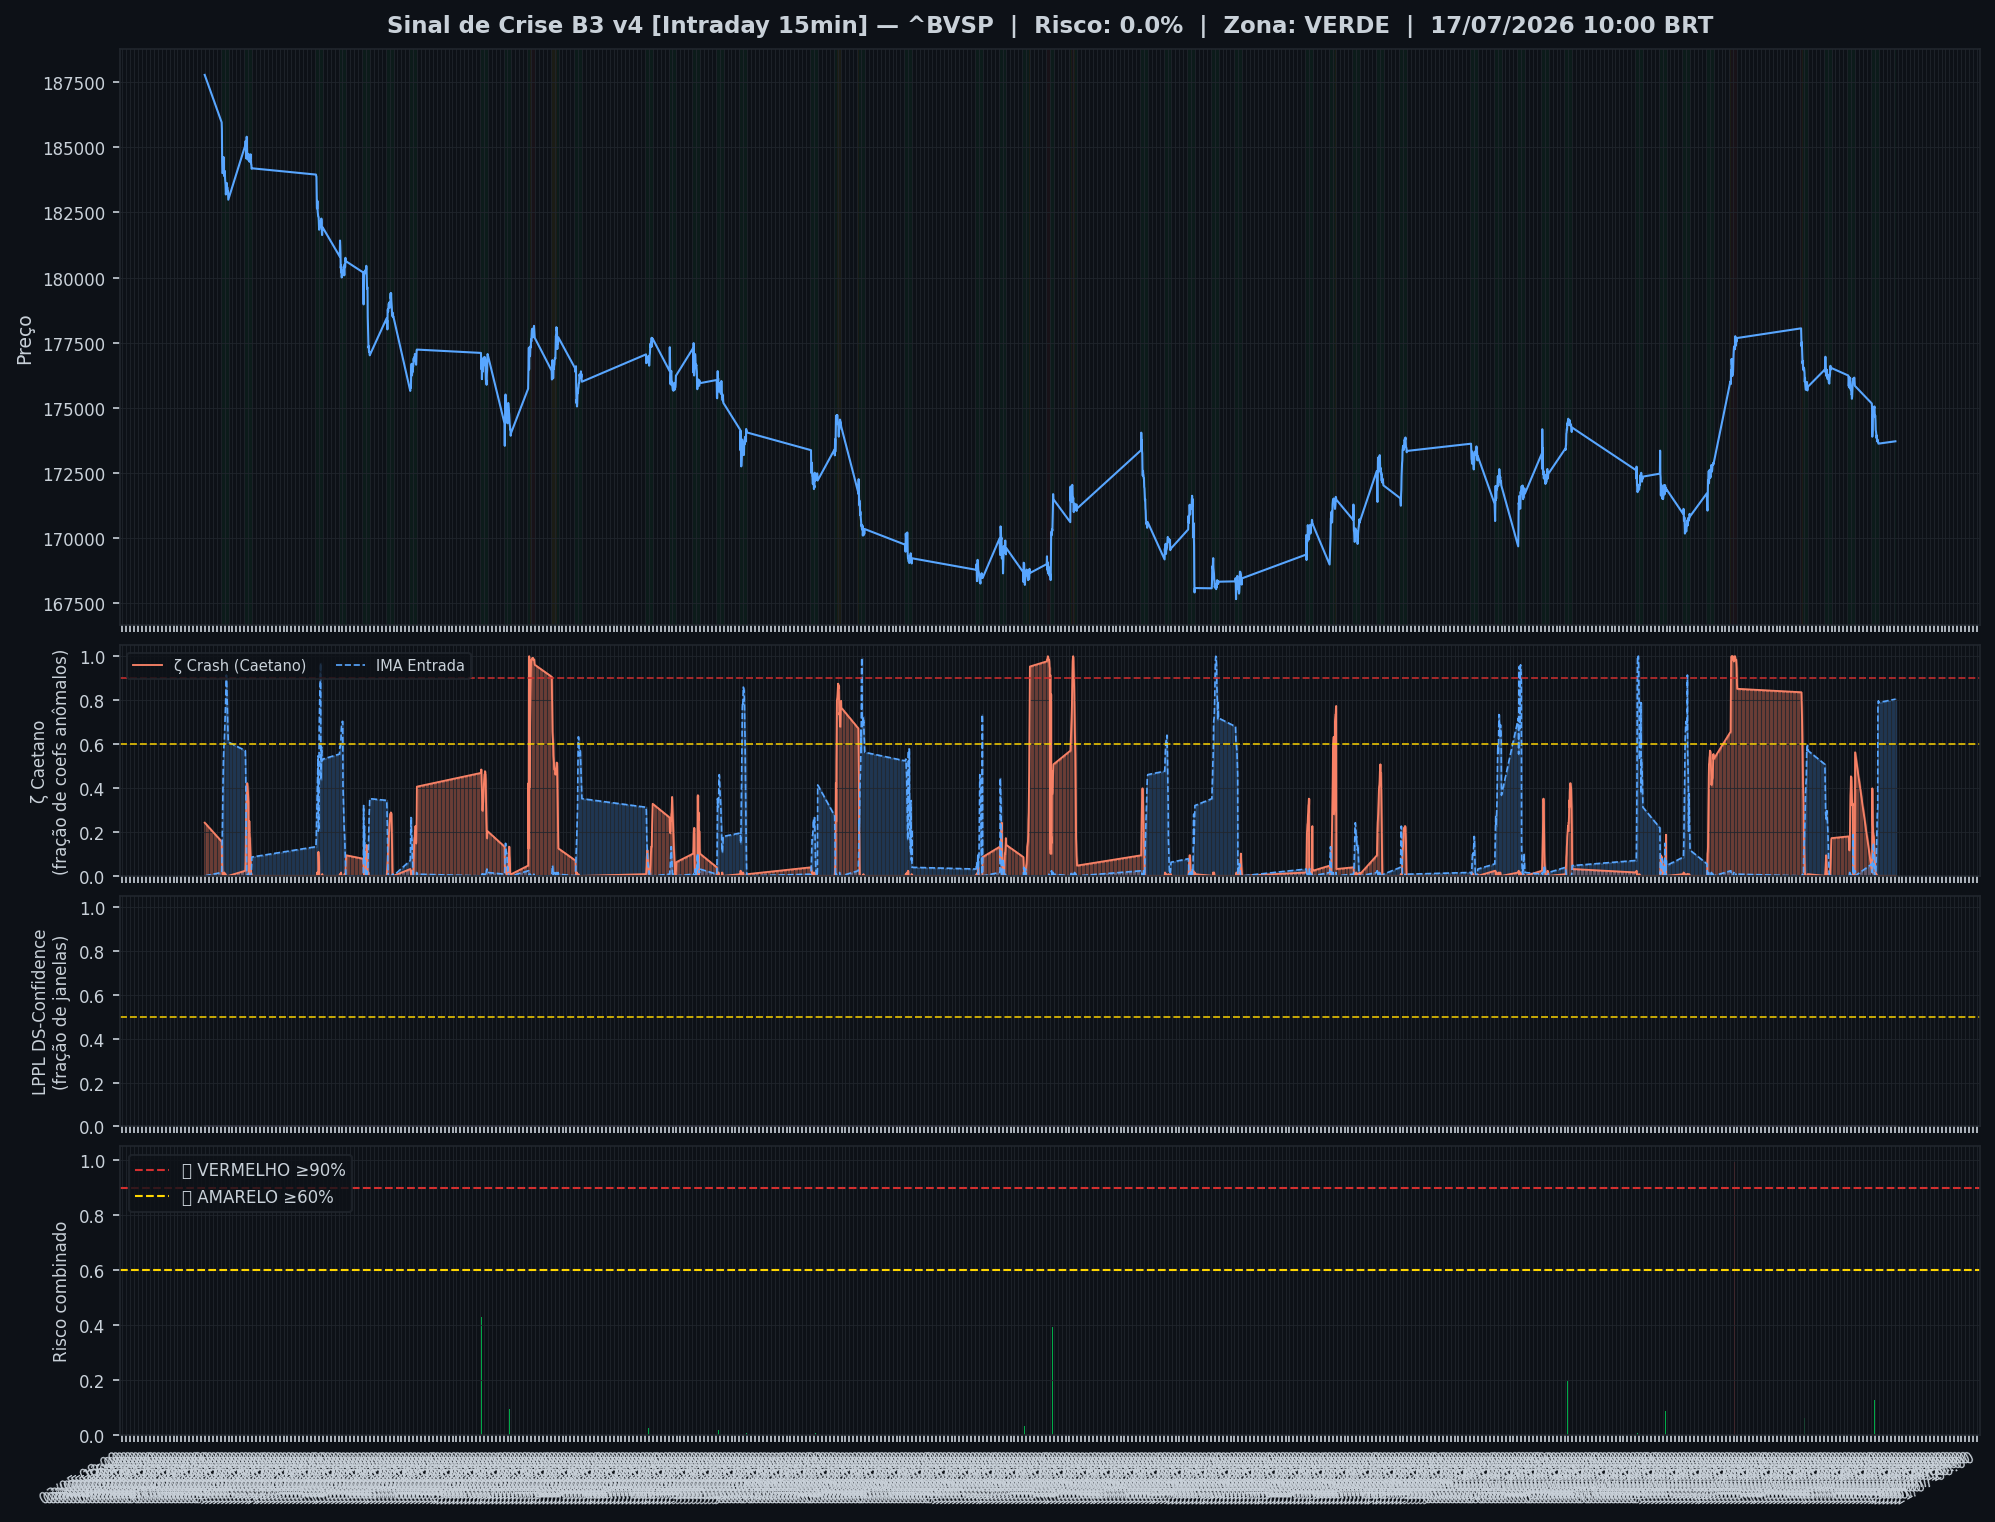
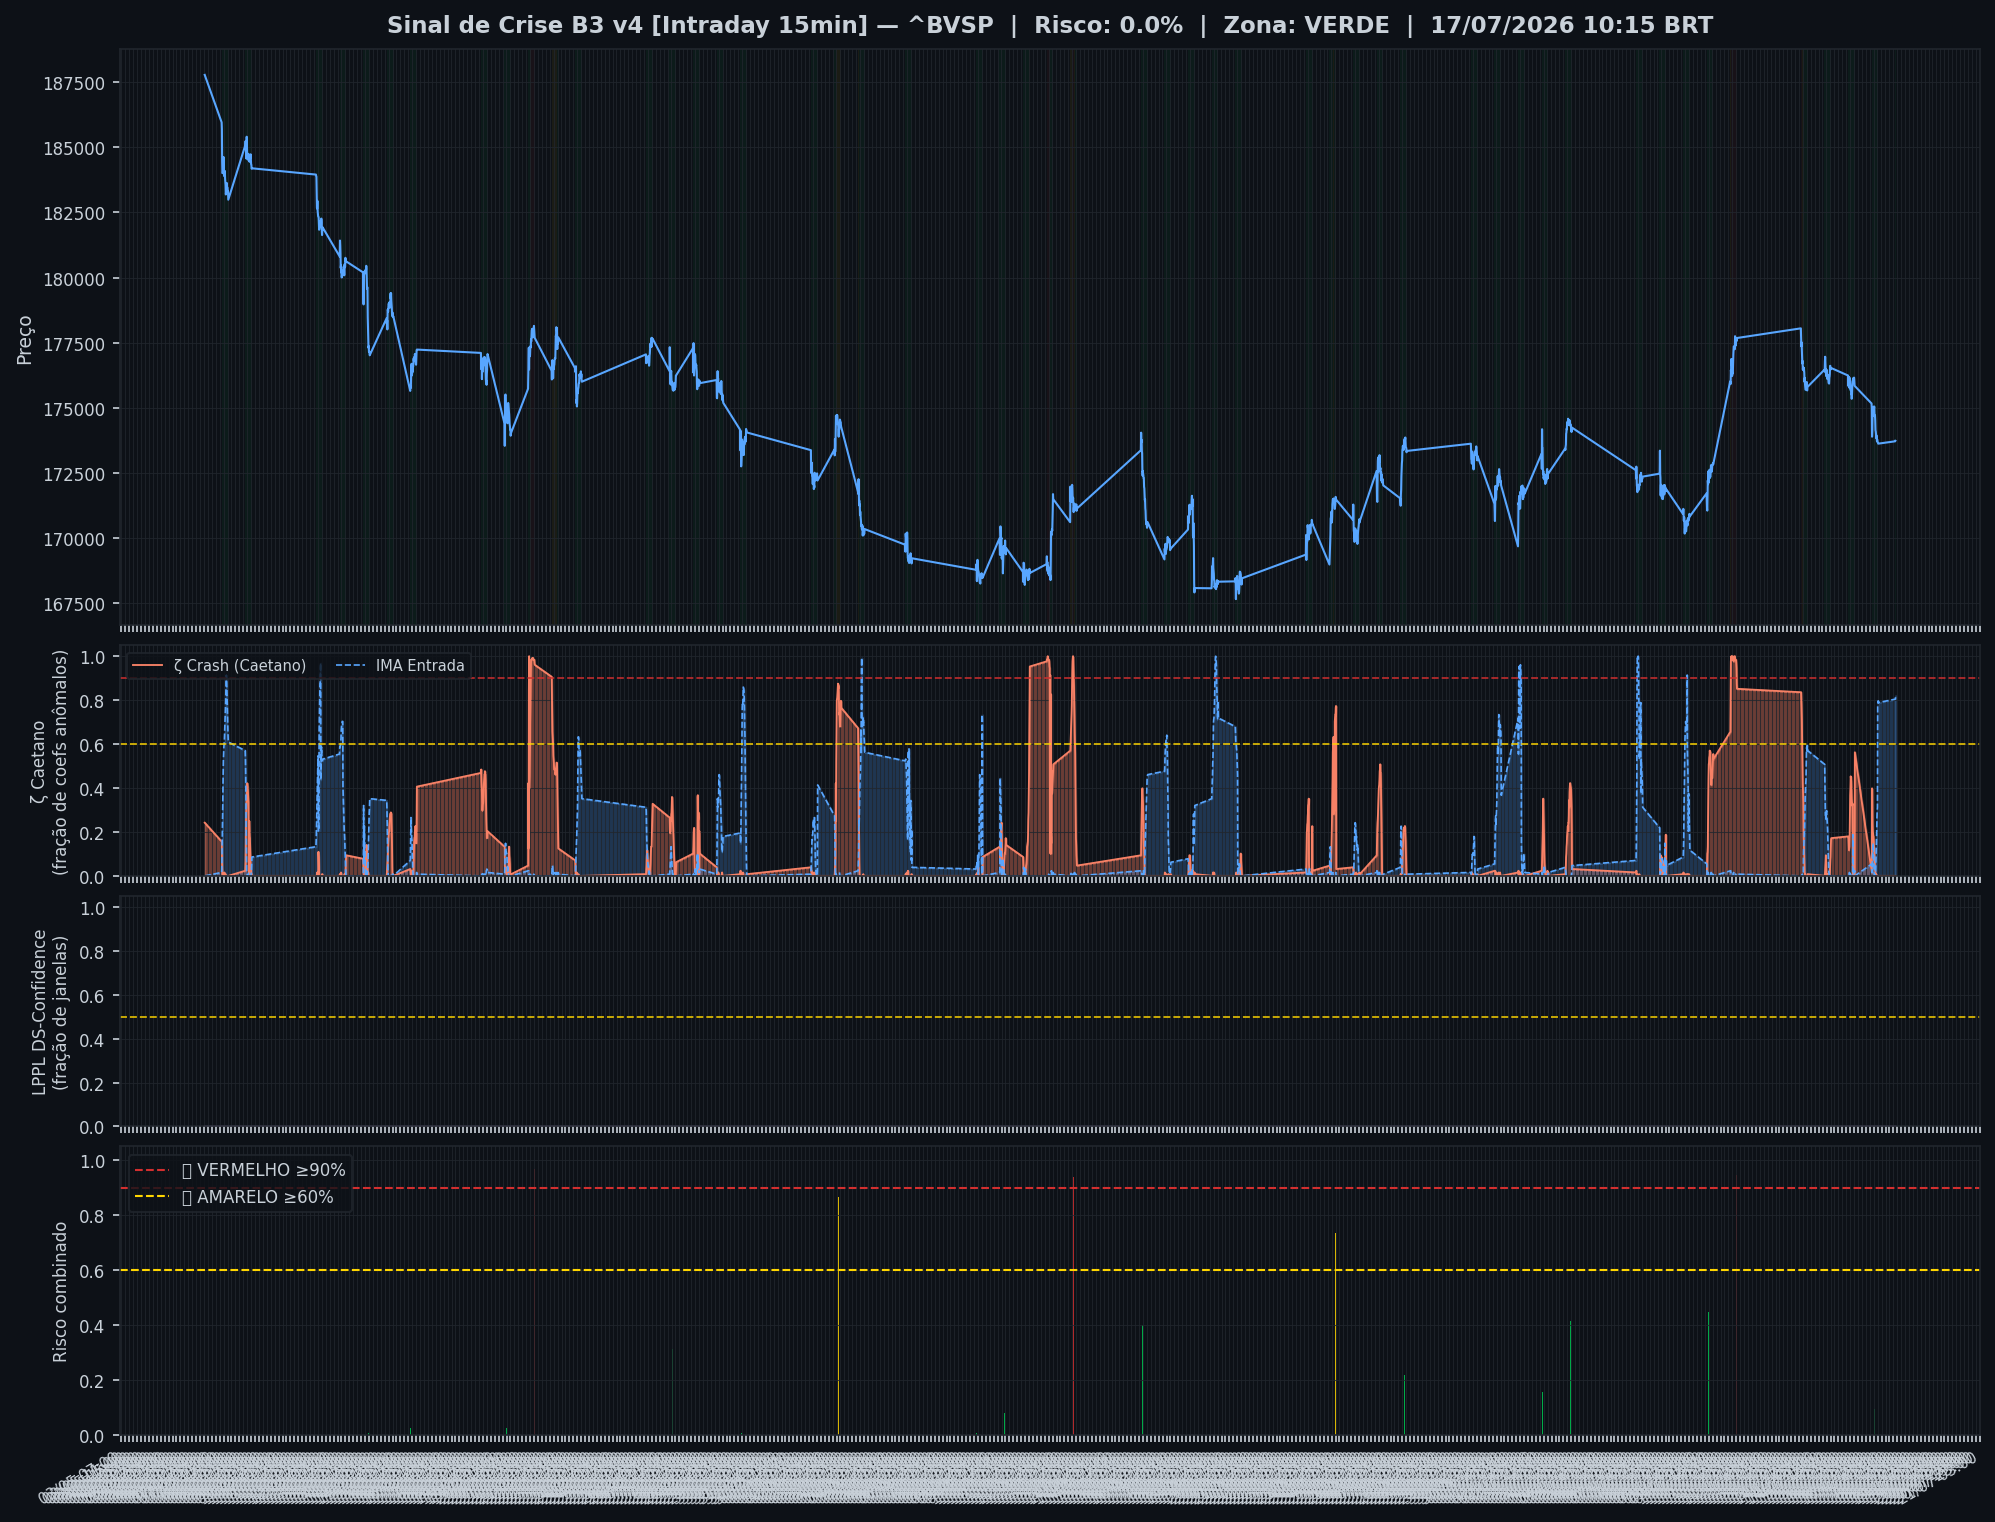
🤖 Auto: Sinal 17/07/2026 11:00

diff --git a/content/intraday/2026-07-17.md b/content/intraday/2026-07-17.md
@@ -1,5 +1,5 @@
 ---
-title: "🟢 Intraday 17/07/2026 10:00 BRT — VERDE"
+title: "🟢 Intraday 17/07/2026 10:15 BRT — VERDE"
 date: 2026-07-17
 tags: [intraday]
 ---
@@ -12,9 +12,9 @@ tags: [intraday]
 | Indicador | Valor |
 |---|---|
 | 🔴 ζ Crash — severidade da queda em curso | **0%** |
-| 🔵 ζ Entrada — estrutura de fundo | 80% |
+| 🔵 ζ Entrada — estrutura de fundo | 82% |
 | 🫧 LPPL DS-Confidence | 0% |
-| 📊 Ibovespa | 173.717 pts |
+| 📊 Ibovespa | 173.737 pts |
 
 ![Gráfico do sinal](../graficos/sinal_intraday.png)
 
@@ -22,6 +22,7 @@ tags: [intraday]
 
 | Data | Zona | Risco | IMA Crash | Entrada | LPPL |
 |---|---|---|---|---|---|
+| 2026-07-17 10:15 | 🟢 VERDE | **0%** | 0% | 82% | 0% |
 | 2026-07-17 10:00 | 🟢 VERDE | **0%** | 0% | 80% | 0% |
 | 2026-07-16 16:45 | 🟢 VERDE | **0%** | 0% | 79% | 0% |
 | 2026-07-16 16:30 | 🟢 VERDE | **0%** | 0% | 80% | 0% |
@@ -51,7 +52,6 @@ tags: [intraday]
 | 2026-07-16 10:30 | 🟢 VERDE | **30%** | 30% | 5% | 0% |
 | 2026-07-16 10:15 | 🟢 VERDE | **40%** | 40% | 2% | 0% |
 | 2026-07-16 10:00 | 🟢 VERDE | **2%** | 2% | 5% | 0% |
-| 2026-07-15 16:45 | 🟢 VERDE | **56%** | 56% | 0% | 0% |
 
 ## Monitor Multi-Ativo
 
@@ -59,37 +59,37 @@ tags: [intraday]
 
 | Zona | Ativo | Setor | IMA Crash | IMA Entrada |
 |---|---|---|---|---|
-| 🟢 | **USD/BRL** | Câmbio | 11.7% | 34.4% |
-| 🟢 | **VALE** | Mineração | 7.0% | 40.6% |
-| 🟢 | **ITAUUNIBANCO** | Financeiro | 7.0% | 40.6% |
-| 🟢 | **PETROBRAS** | Petróleo | 7.0% | 40.6% |
-| 🟢 | **AXIA ENERGIA** | Energia | 7.0% | 40.6% |
-| 🟢 | **PETROBRAS** | Petróleo | 7.0% | 40.6% |
-| 🟢 | **BRADESCO** | Financeiro | 7.0% | 40.6% |
-| 🟢 | **ITAUSA** | Financeiro | 7.0% | 40.6% |
-| 🟢 | **B3** | Financeiro | 7.0% | 40.6% |
-| 🟢 | **BTGP BANCO** | Financeiro | 7.0% | 40.6% |
-| 🟢 | **AMBEV S/A** | Consumo | 7.0% | 40.6% |
-| 🟢 | **WEG** | Industrial | 7.0% | 40.6% |
-| 🟢 | **BRASIL** | Financeiro | 7.0% | 40.6% |
-| 🟢 | **EMBRAER** | Outros | 7.0% | 40.6% |
-| 🟢 | **EQUATORIAL** | Energia | 7.0% | 40.6% |
-| 🟢 | **ENEVA** | Energia | 7.0% | 40.6% |
-| 🟢 | **PRIO** | Petróleo | 7.0% | 40.6% |
-| 🟢 | **VIBRA** | Energia | 7.0% | 40.6% |
-| 🟢 | **REDE D OR** | Saúde | 7.0% | 40.6% |
-| 🟢 | **LOCALIZA** | Aluguel | 7.0% | 40.6% |
-| 🟢 | **GERDAU** | Siderurgia | 7.0% | 40.6% |
-| 🟢 | **BBSEGURIDADE** | Financeiro | 7.0% | 40.6% |
-| 🟢 | **TELEF BRASIL** | Outros | 7.0% | 40.6% |
-| 🟢 | **SABESP** | Saneamento | 3.9% | 46.9% |
-| 🟢 | **COPEL** | Energia | 3.9% | 46.9% |
-| 🟢 | **SUZANO S.A.** | Papel/Celulose | 3.9% | 46.9% |
-| 🟢 | **ULTRAPAR** | Outros | 0.0% | 42.2% |
+| 🟢 | **USD/BRL** | Câmbio | 15.6% | 41.4% |
+| 🟢 | **VALE** | Mineração | 11.7% | 34.4% |
+| 🟢 | **ITAUUNIBANCO** | Financeiro | 11.7% | 34.4% |
+| 🟢 | **PETROBRAS** | Petróleo | 11.7% | 34.4% |
+| 🟢 | **AXIA ENERGIA** | Energia | 11.7% | 34.4% |
+| 🟢 | **PETROBRAS** | Petróleo | 11.7% | 34.4% |
+| 🟢 | **BRADESCO** | Financeiro | 11.7% | 34.4% |
+| 🟢 | **SABESP** | Saneamento | 11.7% | 34.4% |
+| 🟢 | **ITAUSA** | Financeiro | 11.7% | 34.4% |
+| 🟢 | **B3** | Financeiro | 11.7% | 34.4% |
+| 🟢 | **BTGP BANCO** | Financeiro | 11.7% | 34.4% |
+| 🟢 | **AMBEV S/A** | Consumo | 11.7% | 34.4% |
+| 🟢 | **WEG** | Industrial | 11.7% | 34.4% |
+| 🟢 | **BRASIL** | Financeiro | 11.7% | 34.4% |
+| 🟢 | **EMBRAER** | Outros | 11.7% | 34.4% |
+| 🟢 | **EQUATORIAL** | Energia | 11.7% | 34.4% |
+| 🟢 | **ENEVA** | Energia | 11.7% | 34.4% |
+| 🟢 | **COPEL** | Energia | 11.7% | 34.4% |
+| 🟢 | **PRIO** | Petróleo | 11.7% | 34.4% |
+| 🟢 | **VIBRA** | Energia | 11.7% | 34.4% |
+| 🟢 | **REDE D OR** | Saúde | 11.7% | 34.4% |
+| 🟢 | **LOCALIZA** | Aluguel | 11.7% | 34.4% |
+| 🟢 | **ULTRAPAR** | Outros | 11.7% | 34.4% |
+| 🟢 | **GERDAU** | Siderurgia | 11.7% | 34.4% |
+| 🟢 | **SUZANO S.A.** | Papel/Celulose | 11.7% | 34.4% |
+| 🟢 | **BBSEGURIDADE** | Financeiro | 11.7% | 34.4% |
+| 🟢 | **TELEF BRASIL** | Outros | 11.7% | 34.4% |
 
 ![Monitor multi-ativo](../graficos/multi_intraday.png)
 
-*Página atualizada em 17/07/2026 10:45 BRT (leitura da barra de 2026-07-17 10:00 BRT).*
+*Página atualizada em 17/07/2026 11:00 BRT (leitura da barra de 2026-07-17 10:15 BRT).*
 
 > [!info]- Como interpretar (clique para expandir)
 > - **ζ Crash**: fração dos coeficientes wavelet acima do corte (Caetano & Yoneyama 2009). Escala absoluta: ζ=0,90 = 90% dos coeficientes anômalos — historicamente, quedas com ζ≥0,90 foram mais fundas e mais longas. **Mede a severidade do movimento em curso, não prevê o início da queda.**

diff --git a/content/index.md b/content/index.md
@@ -8,7 +8,7 @@ tags: [home]
 
 Monitoramento diário e intraday do Ibovespa — **IMA Wavelet** (Prof. Marco Antonio Leonel Caetano, ITA/INSPER) + **LPPL DS-Confidence** (Prof. Didier Sornette, ETH-Zurich).
 
-*Última atualização: 17/07/2026 10:45 BRT · ^BVSP · Intraday 15min · v4*
+*Última atualização: 17/07/2026 11:00 BRT · ^BVSP · Intraday 15min · v4*
 
 > [!success] 🟢 **VERDE** — Risco 0% · ＝ +0 p.p. vs leitura anterior
 > `░░░░░░░░░░░░░░░░░░░░`
@@ -18,9 +18,9 @@ Monitoramento diário e intraday do Ibovespa — **IMA Wavelet** (Prof. Marco An
 | Indicador | Valor |
 |---|---|
 | 🔴 ζ Crash — severidade da queda em curso | **0%** |
-| 🔵 ζ Entrada — estrutura de fundo | 80% |
+| 🔵 ζ Entrada — estrutura de fundo | 82% |
 | 🫧 LPPL DS-Confidence | 0% |
-| 📊 Ibovespa | 173.717 pts |
+| 📊 Ibovespa | 173.737 pts |
 
 **Multi-ativo:** 0% em tensão (0🔴 0🟡 de 27 ativos)
 
@@ -34,7 +34,6 @@ Monitoramento diário e intraday do Ibovespa — **IMA Wavelet** (Prof. Marco An
 |---|---|---|---|---|
 | [17 Jul 2026](diario/2026-07-17) | 🟢 VERDE | **0%** | 0% | 0% |
 | [16 Jul 2026](diario/2026-07-16) | 🟢 VERDE | **0%** | 0% | 0% |
-| [15 Jul 2026](diario/2026-07-15) | 🟢 VERDE | **56%** | 56% | 0% |
 
 ## Navegação
 

diff --git a/content/historico.md b/content/historico.md
@@ -7,6 +7,7 @@ tags: [historico]
 
 | Data | Modo | Zona | Risco | IMA | LPPL |
 |---|---|---|---|---|---|
+| 2026-07-17 10:15 | intraday | 🟢 VERDE | 0% | 0% | 0% |
 | 2026-07-17 10:00 | intraday | 🟢 VERDE | 0% | 0% | 0% |
 | 2026-07-15 | diario | 🟢 VERDE | 0% | 1% | 0% |
 | 2026-07-16 16:45 | intraday | 🟢 VERDE | 0% | 0% | 0% |
